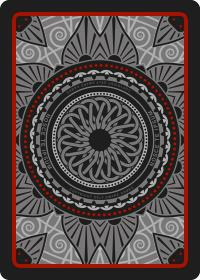
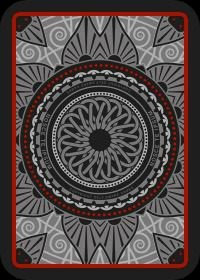
Changes made

diff --git a/home.html b/home.html
@@ -4,64 +4,108 @@
   <title> Puppy Memory Game </title>
   <meta charset="utf-8">
   <link rel="stylesheet" type="text/css" href="css/cool.css">
-
+  <meta charset="utf-8">
+  <meta name="viewport" content="width=device-width, initial-scale=1">
+  <link rel="stylesheet" href="https://maxcdn.bootstrapcdn.com/bootstrap/3.3.7/css/bootstrap.min.css">
+  <script src="https://ajax.googleapis.com/ajax/libs/jquery/3.3.1/jquery.min.js"></script>
+  <script src="https://maxcdn.bootstrapcdn.com/bootstrap/3.3.7/js/bootstrap.min.js"></script>
 </head>
 <body>
-<div class="container">
+<div class="container RedBox" >
 
-    <div class="center">
-        <h1 class="border" align="center">
-            Puppy Memory Game<br>  <button id="btn" type="button" onclick="newStart()"> New Start   </button>
-        </h1>
+        <h2 class="border" align="center">
+          <br>  <button id="btn" type="button" onclick="newStart()"> New Start   </button>
+        </h2>
 
-          <div class="mainBox  border" >
-                <div class="row">
-                  <div class="column">
-                    <div class="card"><img id="0" src="images/back.jpg" height="180" width="130"></div>
-                    <div class="card"><img id="1" src="images/back.jpg" height="180" width="130"></div>
-                    <div class="card"><img id="2" src="images/back.jpg" height="180" width="130"></div>
-                    <div class="card"><img id="3" src="images/back.jpg" height="180" width="130"></div>
-                  </div>
-                  <div class="column">
+
+          <div class="row ">
+                   <div class="col-xs-5 col-sm-4 col-md-2 col-lg-2 top-buffer" >
+                  <div class="card"><img id="0" src="images/back.jpg" height="180" width="130"></div>
+                   </div>
+                   <div class="col-xs-5 col-sm-4 col-md-2 col-lg-2 top-buffer" >
+                   <div class="card"><img id="1" src="images/back.jpg" height="180" width="130"></div>
+                   </div>
+                   <div class="col-xs-5 col-sm-4 col-md-2 col-lg-2 top-buffer" >
+                   <div class="card"><img id="2" src="images/back.jpg" height="180" width="130"></div>
+                   </div>
+                   <div class="col-xs-5 col-sm-4 col-md-2 col-lg-2 top-buffer" >
+                   <div class="card"><img id="3" src="images/back.jpg" height="180" width="130"></div>
+                   </div>
+                   <div class="col-xs-5 col-sm-4 col-md-2 col-lg-2 top-buffer" >
                     <div class="card"><img id="4" src="images/back.jpg" height="180" width="130"></div>
+                    </div>
+                    <div class="col-xs-5 col-sm-4 col-md-2 col-lg-2 top-buffer" >
                     <div class="card"><img id="5" src="images/back.jpg" height="180" width="130"></div>
+                    </div>
+         </div>
+        <div class="row ">
+                    <div class="col-xs-5 col-sm-4 col-md-2 col-lg-2 top-buffer" >
                     <div class="card"><img id="6" src="images/back.jpg" height="180" width="130"></div>
+                    </div>
+                    <div class="col-xs-5 col-sm-4 col-md-2 col-lg-2 top-buffer" >
                     <div class="card"><img id="7" src="images/back.jpg" height="180" width="130"></div>
-                  </div>
-                </div>
-                <div class="row">
-                  <div class="column">
+                    </div>
+                    <div class="col-xs-5 col-sm-4 col-md-2 col-lg-2 top-buffer" >
                     <div class="card"><img id="8" src="images/back.jpg" height="180" width="130"></div>
+                    </div>
+                    <div class="col-xs-5 col-sm-4 col-md-2 col-lg-2 top-buffer" >
                     <div class="card"><img id="9" src="images/back.jpg" height="180" width="130"></div>
+                    </div>
+                    <div class="col-xs-5 col-sm-4 col-md-2 col-lg-2 top-buffer" >
                     <div class="card"><img id="10" src="images/back.jpg" height="180" width="130"></div>
+                    </div>
+                    <div class="col-xs-5 col-sm-4 col-md-2 col-lg-2 top-buffer" >
                     <div class="card"><img id="11" src="images/back.jpg" height="180" width="130"></div>
-                  </div>
-                  <div class="column">
-                    <div class="card"><img id="12" src="images/back.jpg" height="180" width="130"></div>
-                    <div class="card"><img id="13" src="images/back.jpg" height="180" width="130"></div>
-                    <div class="card"><img id="14" src="images/back.jpg" height="180" width="130"></div>
-                    <div class="card"><img id="15" src="images/back.jpg" height="180" width="130"></div>
-                  </div>
-                </div>
-                <div class="row">
-                  <div class="column">
-                    <div class="card"><img id="16" src="images/back.jpg" height="180" width="130"></div>
-                    <div class="card"><img id="17" src="images/back.jpg" height="180" width="130"></div>
-                    <div class="card"><img id="18" src="images/back.jpg" height="180" width="130"></div>
-                    <div class="card"><img id="19" src="images/back.jpg" height="180" width="130"></div>
-                  </div>
-                  <div class="column">
-                    <div class="card"><img id="20" src="images/back.jpg" height="180" width="130"></div>
-                    <div class="card"><img id="21" src="images/back.jpg" height="180" width="130"></div>
-                    <div class="card"><img id="22" src="images/back.jpg" height="180" width="130"></div>
-                    <div class="card"><img id="23" src="images/back.jpg" height="180" width="130"></div>
-                  </div>
-                </div>
-            </div>
-       </div>
+                    </div>
+        </div>
 
+
+        <div class="row ">
+                    <div class="col-xs-5 col-sm-4 col-md-2 col-lg-2 top-buffer" >
+                    <div class="card"><img id="12" src="images/back.jpg" height="180" width="130"></div>
+                    </div>
+                    <div class="col-xs-5 col-sm-4 col-md-2 col-lg-2 top-buffer" >
+                    <div class="card"><img id="13" src="images/back.jpg" height="180" width="130"></div>
+                    </div>
+                    <div class="col-xs-5 col-sm-4 col-md-2 col-lg-2 top-buffer" >
+                    <div class="card"><img id="14" src="images/back.jpg" height="180" width="130"></div>
+                    </div>
+                    <div class="col-xs-5 col-sm-4 col-md-2 col-lg-2 top-buffer" >
+                    <div class="card"><img id="15" src="images/back.jpg" height="180" width="130"></div>
+                    </div>
+                    <div class="col-xs-5 col-sm-4 col-md-2 col-lg-2 top-buffer" >
+                    <div class="card"><img id="16" src="images/back.jpg" height="180" width="130"></div>
+                    </div>
+                    <div class="col-xs-5 col-sm-4 col-md-2 col-lg-2 top-buffer" >
+                    <div class="card"><img id="17" src="images/back.jpg" height="180" width="130"></div>
+                    </div>
+
+        </div>
+      <div class="row ">
+                    <div class="col-xs-5 col-sm-4 col-md-2 col-lg-2 top-buffer" >
+                    <div class="card"><img id="18" src="images/back.jpg" height="180" width="130"></div>
+                    </div>
+                    <div class="col-xs-5 col-sm-4 col-md-2 col-lg-2 top-buffer" >
+                    <div class="card"><img id="19" src="images/back.jpg" height="180" width="130"></div>
+                    </div>
+                    <div class="col-xs-5 col-sm-4 col-md-2 col-lg-2 top-buffer" >
+                    <div class="card"><img id="20" src="images/back.jpg" height="180" width="130"></div>
+                    </div>
+                    <div class="col-xs-5 col-sm-4 col-md-2 col-lg-2 top-buffer" >
+                    <div class="card"><img id="21" src="images/back.jpg" height="180" width="130"></div>
+                    </div>
+                    <div class="col-xs-5 col-sm-4 col-md-2 col-lg-2 top-buffer" >
+                    <div class="card"><img id="22" src="images/back.jpg" height="180" width="130"></div>
+                    </div>
+                    <div class="col-xs-5 col-sm-4 col-md-2 col-lg-2 top-buffer" >
+                    <div class="card"><img id="23" src="images/back.jpg" height="180" width="130"></div>
+                    </div>
 
       </div>
+
+
+
+</div>
 
       <script language="javascript">
 

diff --git a/css/cool.css b/css/cool.css
@@ -1,58 +1,15 @@
-body {
-  margin: auto;
-}
-.center {
-    margin: auto;
-    width: 60%;
-
-}
-.border{
-    border: 3px solid black;
-    padding: 10px 10px 10px 10px;
-}
-.border2{
-    border: 3px solid black;
-    padding: 10px 10px 10px 10px;
-    float: left;
-}
-
-
-.container .left { float: left; }
-.container .center { margin: 0 auto; width: 70%;}
-.container .right { float: right; }
-
-.mainBox{
-  display: grid;
-  grid-template-columns: auto auto auto auto;
-  grid-gap: 5px ;
-  background-color: #A52A2A;
-  padding: 5px 5px 5px 5px ;
-}
-
-
-* {
-    box-sizing: border-box;
-}
-.row {
-    display: flex;
-    flex-wrap: wrap;
-    padding:  5px 5px 5px 5px;
-}
-
-.column {
-
-    flex: 10%;
-    padding:  5px 5px 5px 5px ;
-}
-.column img {
-    margin-top: 8px;
-    vertical-align: middle;
-}
-img {
-    max-height: 100%;
+.RedBox{
+  background-color: #ED6F71; /*Light red background*/
 }
 
 .disabled {
-	pointer-events: none;
+	pointer-events: none;  /*Used to make imges unclikable*/
+}
 
+.top-buffer {
+margin-top:20px; /*Space between cards*/
+   }
+
+img {
+border-radius: 15%;  /*cutting corners of images*/
 }
